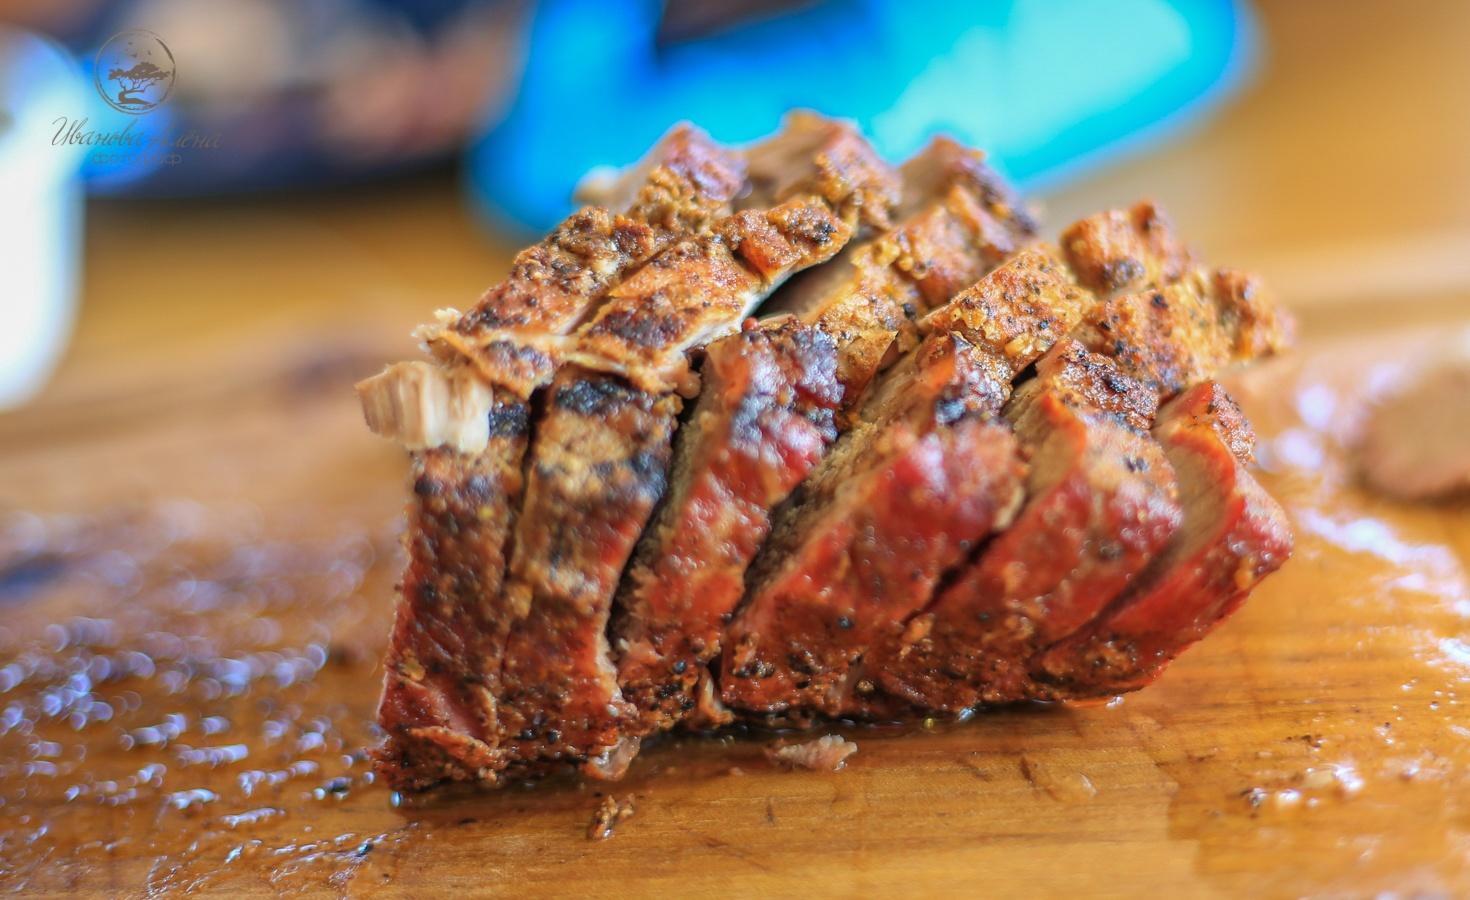
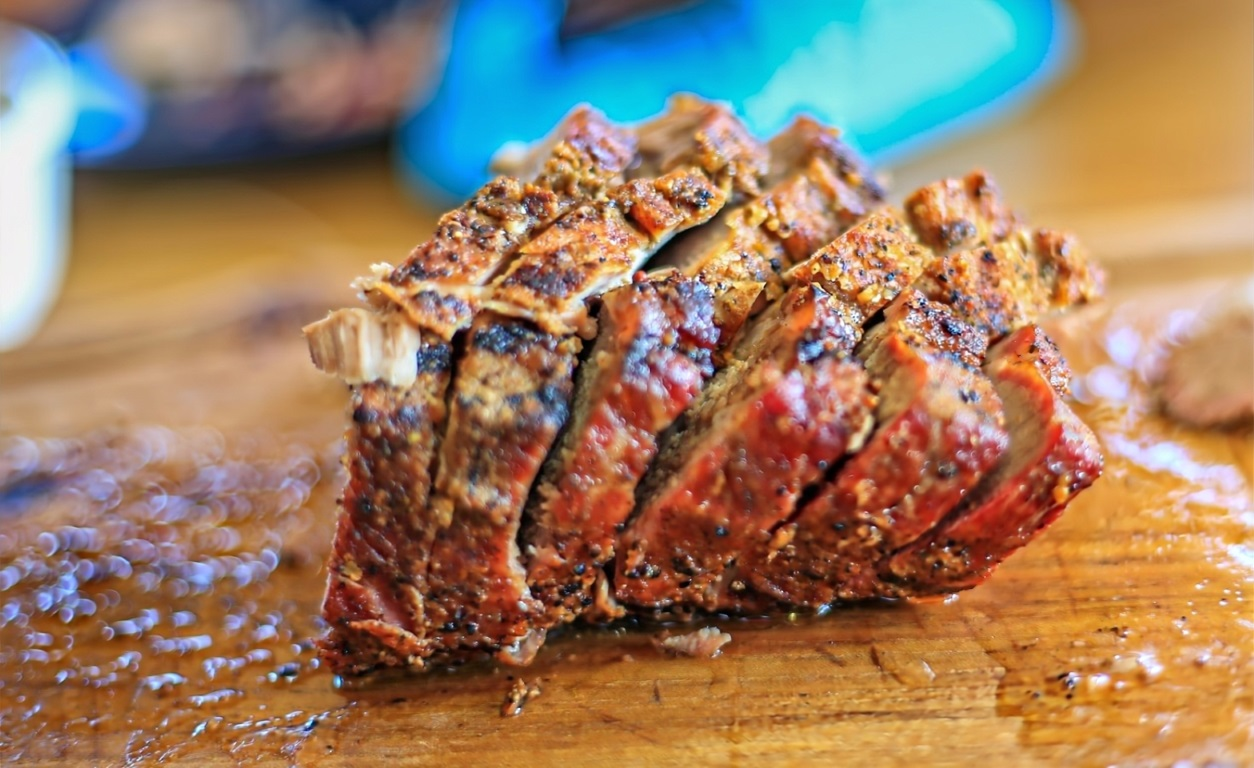
lst

diff --git a/src/components/layout/Footer/Footer.jsx b/src/components/layout/Footer/Footer.jsx
@@ -20,11 +20,12 @@ const Footer = () => {
         <div className={styles['footer__contacts']}>
             <span>Связаться с нами</span>
             <a href="tel:+79039299383"><span>+7 (903) 929-93-83</span></a>
+            <div className= {styles['footer__email']}><a href="mailto:lysovanton76@gmail.com">lysovanton76@gmail.com</a></div>
             <div className={styles["footer__icons"]}>
                 <a href="https://max.ru/u/f9LHodD0cOLZx13Hi2qAmbymgnwCI6NIwvhEI3Zm6JAns50ZFcZBSZIjDAw"><img className={styles["footer__icon"]} src="/img/max_ico.png"></img></a>
                 <a href="https://vk.cc/cmIUok"><img className={styles["footer__icon"]} src="https://territoryputorana.ru/img/vk_ico.png"></img></a>
                 <a href="https://t.me/territoryputorana"><img className={styles["footer__icon"]} src="https://territoryputorana.ru/img/tlgrm_ico.png"></img></a>
-                <a href="mailto:lysovanton76@gmail.com"><img className = {styles["footer__icon"]} src="/img/email_ico.png"></img></a>
+                {/* <a href="mailto:lysovanton76@gmail.com"><img className = {styles["footer__icon"]} src="/img/email_ico.png"></img></a> */}
             </div>
             <div className={styles['footer__privacy']}>
                 {/* <a href = '/privacy'>Политика конфиденциальности</a> */}

diff --git a/src/components/layout/Footer/Footer.module.scss b/src/components/layout/Footer/Footer.module.scss
@@ -98,23 +98,31 @@
    
 
     #{&}__icon {
-        height: 35px;
-        @media (max-width: map.get(const.$breakpoints, lg)) {
-            margin-left: 23px;
-            width: 32px;
+        height: 1.8rem;
+        // @media (max-width: map.get(const.$breakpoints, lg)) {
+        //     margin-left: 23px;
+        //     width: 32px;
+        // }
+        // @media (max-width: map.get(const.$breakpoints, md)) {
+        //     width: 28px;
+        // }
+        // @media (max-width: map.get(const.$breakpoints, sm)) {
+        //     width: 25px;
+        // }
+        // @media (max-width: map.get(const.$breakpoints, xs)) {            
+        //     width: 22px;
+        // }
+        // @media (max-width: map.get(const.$breakpoints, vs)) {
+        //     width: 20px;
+        // }  
+    }
+
+    &__email {
+        & a {
+            font-size: 0.9rem;
+            color: white;
         }
-        @media (max-width: map.get(const.$breakpoints, md)) {
-            width: 28px;
-        }
-        @media (max-width: map.get(const.$breakpoints, sm)) {
-            width: 25px;
-        }
-        @media (max-width: map.get(const.$breakpoints, xs)) {            
-            width: 22px;
-        }
-        @media (max-width: map.get(const.$breakpoints, vs)) {
-            width: 20px;
-        }  
+        
     }
 
 

diff --git a/src/components/layout/Header/Header.tsx b/src/components/layout/Header/Header.tsx
@@ -158,7 +158,7 @@ const Header = () => {
               <a href="https://vk.cc/cmIUok"><img className = {styles.header__icon} src="/img/vk_ico.png"></img></a>
               {/* <a href="https://wa.me/79039299383"><img className = {styles.header__icon} src="/img/wa_ico.png"></img></a> */}
               <a href="https://t.me/territoryputorana"><img className = {styles.header__icon} src="/img/tlgrm_ico.png"></img></a>
-              <a href="mailto:lysovanton76@gmail.com"><img className = {styles.header__icon} src="/img/email_ico.png"></img></a>
+              {/* <a href="mailto:lysovanton76@gmail.com"><img className = {styles.header__icon} src="/img/email_ico.png"></img></a> */}
           </div>
         </div> 
         <div className = {styles.header__home}>

diff --git a/src/app/(site)/(MainPage)/CardsBlock.module.scss b/src/app/(site)/(MainPage)/CardsBlock.module.scss
@@ -135,8 +135,8 @@
     &__text-container {
         position: relative;
         z-index: 1;
-        // background-color: rgba(100, 100, 100, 0.3);
-        background-color: rgba(100, 100, 100, 0);
+        background-color: rgba(100, 100, 100, 0.3);
+        // background-color: rgba(100, 100, 100, 0);
         width: 100%;
         height: 100%;
         display: flex;
